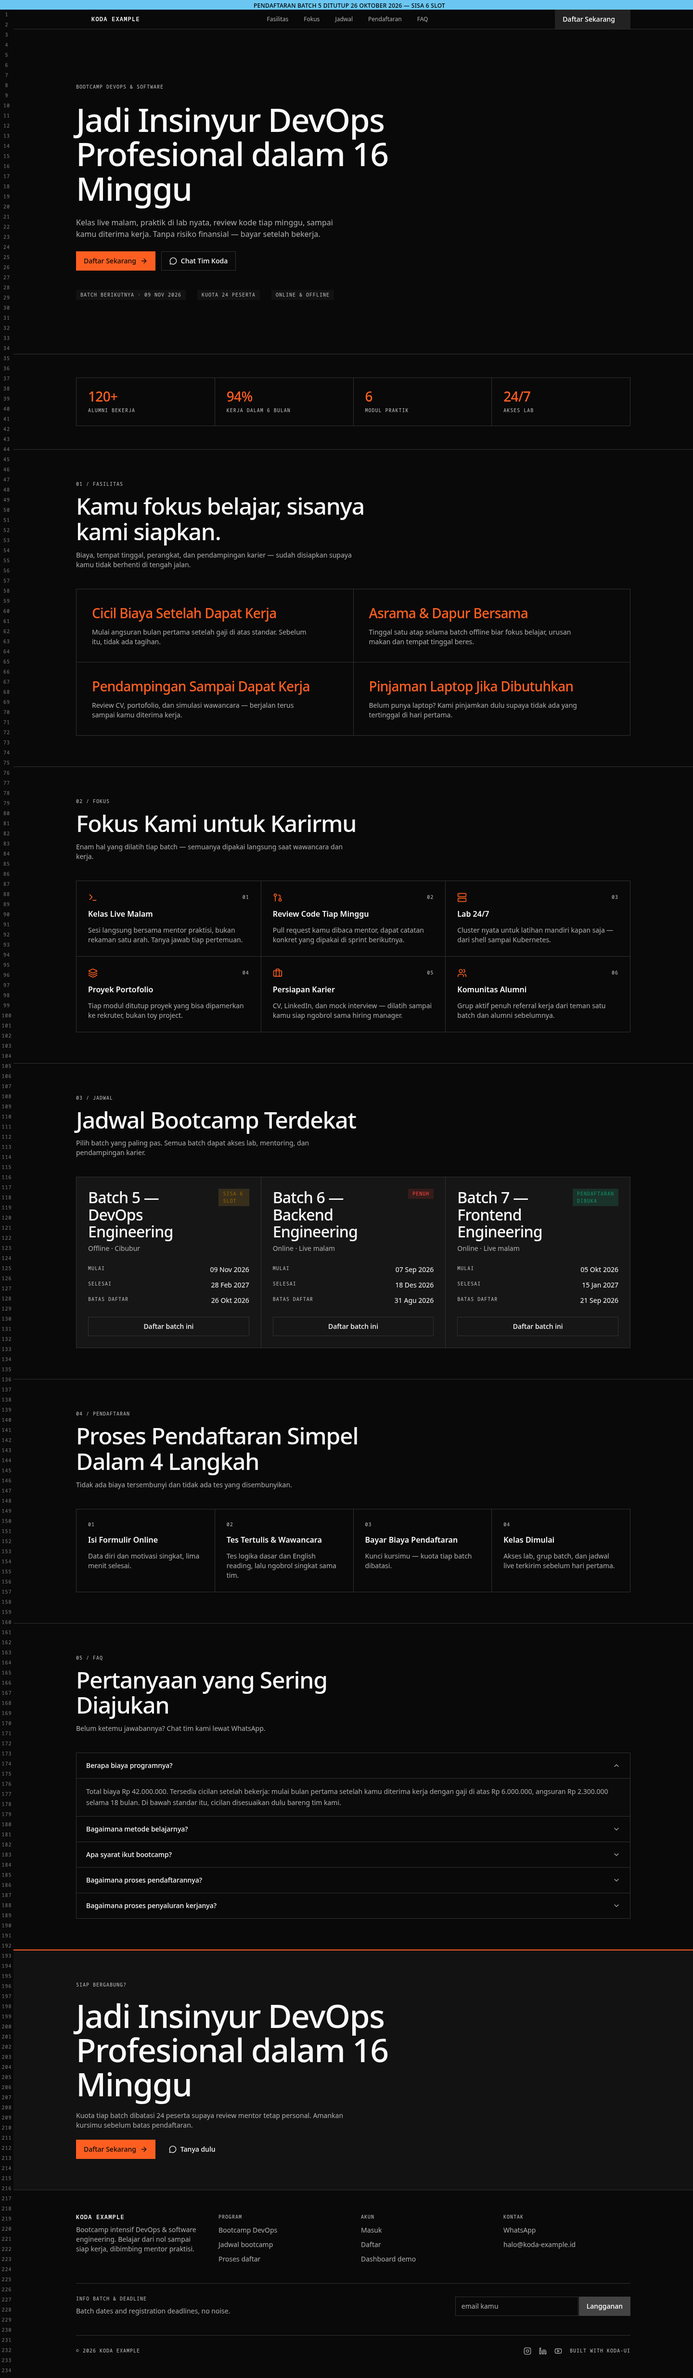
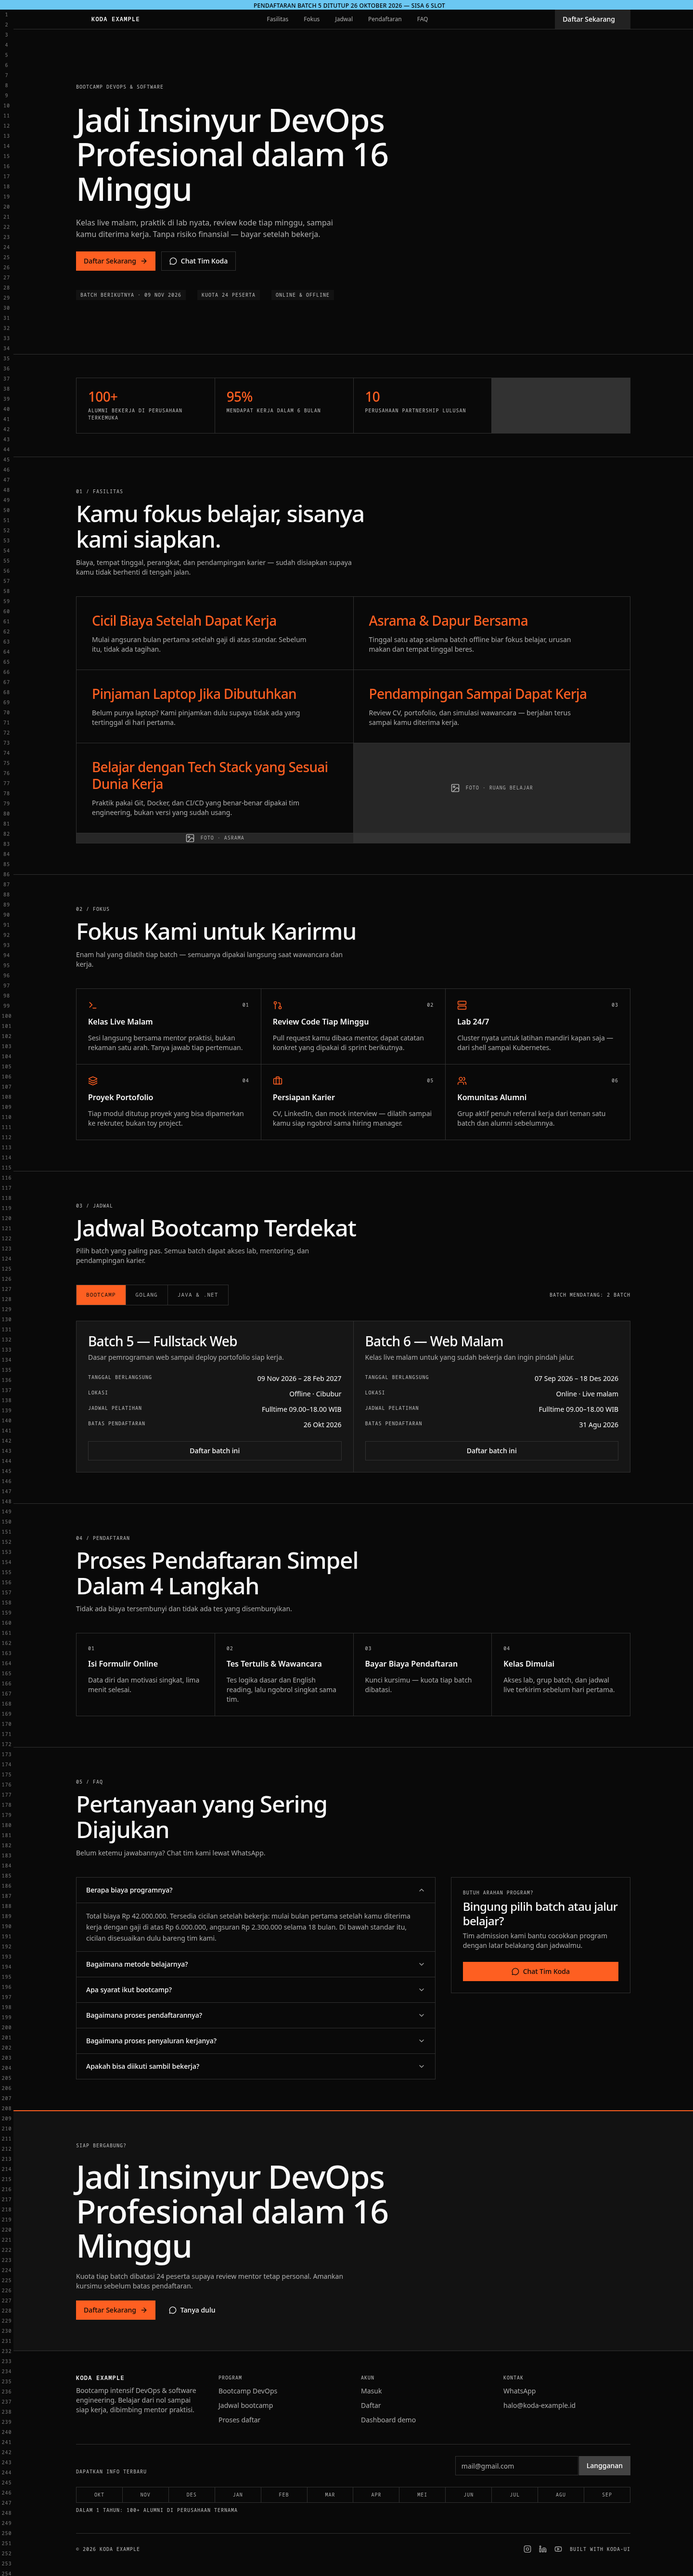
feat(landing): complete spec sections — feature grid 5+2 foto, stat strip 3, FAQ 6 + kartu WA, newsletter eyebrow + timeline bulan, jadwal tabs (Bootcamp/Golang/Java & .NET)

diff --git a/src/pages/landing.tsx b/src/pages/landing.tsx
@@ -1,21 +1,22 @@
 import * as React from "react";
 import { Link } from "react-router-dom";
-import { MessageCircle, ArrowRight, Terminal, GitPullRequest, Server, Layers, Briefcase, Users } from "lucide-react";
+import { MessageCircle, ArrowRight, Terminal, GitPullRequest, Server, Layers, Briefcase, Users, Image as ImageIcon } from "lucide-react";
 import { AnnouncementBar } from "@/components/landing/announcement-bar";
 import { RuleRail } from "@/components/landing/rule-rail";
 import { Navbar } from "@/components/landing/navbar";
 import { Hero } from "@/components/landing/hero";
 import { StatCounter } from "@/components/landing/stat-counter";
 import { FeatureGrid } from "@/components/landing/feature-grid";
+import { JadwalTabs } from "@/components/landing/jadwal-tabs";
 import { CtaBand } from "@/components/landing/cta-band";
 import { Footer } from "@/components/landing/footer";
 import { SectionFrame } from "@/components/ui/section-frame";
 import { Button } from "@/components/ui/button";
 import { Badge } from "@/components/ui/badge";
-import { Card, CardContent, CardHeader, CardTitle, CardDescription, CardFooter } from "@/components/ui/card";
+import { Card, CardHeader, CardTitle, CardDescription, CardFooter } from "@/components/ui/card";
 import { Label } from "@/components/ui/label";
 import { Accordion } from "@/components/accordion";
-import { batchCards, langkah, faq, stats, fasilitas, fokusFeatures } from "@/lib/data";
+import { langkah, faq, stats, fasilitas, fokusFeatures, jadwalTabs, timelineMonths } from "@/lib/data";
 
 const WA_LINK =
   "https://api.whatsapp.com/send/?phone=6281234567890&text=Halo%20tim%20Koda%20Example%2C%20saya%20ingin%20tanya%20program%20bootcamp";
@@ -103,6 +104,16 @@ function LandingPage() {
                   <p className="max-w-md text-sm text-muted-foreground">{item.desc}</p>
                 </div>
               ))}
+              {/* Slot foto ruang kelas/asrama — ganti <img> saat aset siap. */}
+              {["ruang belajar", "asrama"].map((photo) => (
+                <div
+                  key={photo}
+                  className="flex aspect-[16/9] items-center justify-center gap-3 bg-muted/30 text-muted-foreground sm:aspect-auto"
+                >
+                  <ImageIcon aria-hidden className="size-5" />
+                  <span className="font-mono text-[10px] uppercase tracking-[0.1em]">Foto · {photo}</span>
+                </div>
+              ))}
             </div>
           </SectionFrame>
 
@@ -123,38 +134,7 @@ function LandingPage() {
             heading="Jadwal Bootcamp Terdekat"
             description="Pilih batch yang paling pas. Semua batch dapat akses lab, mentoring, dan pendampingan karier."
           >
-            <div className="grid gap-px border border-border bg-border md:grid-cols-3">
-              {batchCards.map((batch) => (
-                <Card key={batch.nama} className="rounded-none border-0">
-                  <CardHeader className="flex-row items-start justify-between space-y-0">
-                    <div className="flex flex-col gap-2">
-                      <CardTitle className="text-[32px] font-medium leading-[1.1]">{batch.nama}</CardTitle>
-                      <CardDescription>{batch.mode}</CardDescription>
-                    </div>
-                    <Badge variant={batch.slotTone}>{batch.slot}</Badge>
-                  </CardHeader>
-                  <CardContent className="flex flex-col gap-3 text-sm">
-                    <div className="flex justify-between">
-                      <Label>Mulai</Label>
-                      <span>{batch.mulai}</span>
-                    </div>
-                    <div className="flex justify-between">
-                      <Label>Selesai</Label>
-                      <span>{batch.selesai}</span>
-                    </div>
-                    <div className="flex justify-between">
-                      <Label>Batas daftar</Label>
-                      <span>{batch.batasDaftar}</span>
-                    </div>
-                  </CardContent>
-                  <CardFooter>
-                    <Button asChild variant="outline" className="w-full">
-                      <Link to="/register">Daftar batch ini</Link>
-                    </Button>
-                  </CardFooter>
-                </Card>
-              ))}
-            </div>
+            <JadwalTabs tabs={jadwalTabs} />
           </SectionFrame>
 
           <SectionFrame
@@ -179,12 +159,32 @@ function LandingPage() {
             heading="Pertanyaan yang Sering Diajukan"
             description="Belum ketemu jawabannya? Chat tim kami lewat WhatsApp."
           >
-            <Accordion
-              items={faq.map((item) => ({
-                title: item.q,
-                content: <p className="leading-relaxed">{item.a}</p>,
-              }))}
-            />
+            <div className="grid gap-px border border-border bg-border lg:grid-cols-[2fr_1fr] lg:items-start lg:bg-transparent lg:border-0 lg:gap-8">
+              <Accordion
+                items={faq.map((item) => ({
+                  title: item.q,
+                  content: <p className="leading-relaxed">{item.a}</p>,
+                }))}
+              />
+              <Card className="rounded-none border-border bg-background">
+                <CardHeader>
+                  <Label>Butuh arahan program?</Label>
+                  <CardTitle className="text-2xl font-medium leading-tight">
+                    Bingung pilih batch atau jalur belajar?
+                  </CardTitle>
+                  <CardDescription>
+                    Tim admission kami bantu cocokkan program dengan latar belakang dan jadwalmu.
+                  </CardDescription>
+                </CardHeader>
+                <CardFooter>
+                  <Button asChild className="w-full">
+                    <a href={WA_LINK} target="_blank" rel="noreferrer">
+                      <MessageCircle aria-hidden /> Chat Tim Koda
+                    </a>
+                  </Button>
+                </CardFooter>
+              </Card>
+            </div>
           </SectionFrame>
 
           <CtaBand
@@ -236,7 +236,12 @@ function LandingPage() {
               ],
             },
           ]}
-          newsletter={{ heading: "Info batch & deadline", placeholder: "email kamu", buttonLabel: "Langganan" }}
+          newsletter={{
+            eyebrow: "Dapatkan info terbaru",
+            placeholder: "mail@gmail.com",
+            buttonLabel: "Langganan",
+            timeline: { months: timelineMonths, text: "Dalam 1 tahun: 100+ alumni di perusahaan ternama" },
+          }}
         />
       </div>
     </div>

diff --git a/src/lib/data.ts b/src/lib/data.ts
@@ -78,6 +78,46 @@ export const batchCards = [
   },
 ];
 
+// --- Landing: jadwal tabs (Bootcamp / Golang / Java & .NET) ---
+export interface JadwalBatch {
+  nama: string;
+  deskripsi: string;
+  tanggal: string;
+  lokasi: string;
+  jadwal: string;
+  batasDaftar: string;
+}
+
+export const jadwalTabs: { id: string; label: string; batches: JadwalBatch[] }[] = [
+  {
+    id: "bootcamp",
+    label: "Bootcamp",
+    batches: [
+      { nama: "Batch 5 — Fullstack Web", deskripsi: "Dasar pemrograman web sampai deploy portofolio siap kerja.", tanggal: "09 Nov 2026 – 28 Feb 2027", lokasi: "Offline · Cibubur", jadwal: "Fulltime 09.00–18.00 WIB", batasDaftar: "26 Okt 2026" },
+      { nama: "Batch 6 — Web Malam", deskripsi: "Kelas live malam untuk yang sudah bekerja dan ingin pindah jalur.", tanggal: "07 Sep 2026 – 18 Des 2026", lokasi: "Online · Live malam", jadwal: "Fulltime 09.00–18.00 WIB", batasDaftar: "31 Agu 2026" },
+    ],
+  },
+  {
+    id: "golang",
+    label: "Golang",
+    batches: [
+      { nama: "Kelas GL-1 — Backend Go Intensif", deskripsi: "REST API, concurrency, dan deployment layanan Go ke produksi.", tanggal: "16 Nov 2026 – 22 Jan 2027", lokasi: "Offline · Cibubur", jadwal: "Fulltime 09.00–18.00 WIB", batasDaftar: "02 Nov 2026" },
+      { nama: "Kelas GL-2 — Go Microservice", deskripsi: "gRPC, observability, dan arsitektur service untuk tim backend.", tanggal: "11 Jan 2027 – 19 Mar 2027", lokasi: "Online · Live malam", jadwal: "Fulltime 09.00–18.00 WIB", batasDaftar: "28 Des 2026" },
+    ],
+  },
+  {
+    id: "java-dotnet",
+    label: "Java & .NET",
+    batches: [
+      { nama: "Kelas JV-1 — Spring Boot", deskripsi: "Backend Java enterprise: Spring, JPA, dan pengujian terotomasi.", tanggal: "23 Nov 2026 – 29 Jan 2027", lokasi: "Offline · Cibubur", jadwal: "Fulltime 09.00–18.00 WIB", batasDaftar: "09 Nov 2026" },
+      { nama: "Kelas NT-1 — ASP.NET Core", deskripsi: "Web API .NET, Entity Framework, dan deployment ke cloud.", tanggal: "18 Jan 2027 – 26 Mar 2027", lokasi: "Online · Live malam", jadwal: "Fulltime 09.00–18.00 WIB", batasDaftar: "04 Jan 2027" },
+    ],
+  },
+];
+
+// --- Landing: bulan timeline strip (Okt..Sep) ---
+export const timelineMonths = ["Okt", "Nov", "Des", "Jan", "Feb", "Mar", "Apr", "Mei", "Jun", "Jul", "Agu", "Sep"];
+
 // --- Landing: jadwal table (5 kategori tab, 7 kolom) ---
 export type JadwalKategori = "DevOps" | "Backend" | "Frontend" | "Data" | "Cloud";
 
@@ -133,14 +173,16 @@ export const faq = [
   { q: "Apa syarat ikut bootcamp?", a: "Usia minimal 18 tahun, punya laptop (pinjaman tersedia bila perlu), dan lulus tes dasar logika serta English reading sederhana. Tidak wajib punya latar belakang IT." },
   { q: "Bagaimana proses pendaftarannya?", a: "Isi formulir online, ikut tes tertulis dan wawancara singkat, lalu bayar biaya pendaftaran untuk mengunci kursi. Kuota tiap batch dibatasi agar review mentor tetap personal." },
   { q: "Bagaimana proses penyaluran kerjanya?", a: "Tim karier bantu perbaiki CV dan portofolio, latihan wawancara, lalu kirim rekomendasi ke perusahaan partner. Pendampingan berjalan sampai kamu diterima kerja, bukan berhenti saat lulus kelas." },
+  { q: "Apakah bisa diikuti sambil bekerja?", a: "Bisa. Tersedia kelas live malam dan kelas akhir pekan untuk yang sudah bekerja. Beban tugas disesuaikan, tapi tetap ditagih tiap minggu supaya progres tidak mandek." },
 ];
 
 // --- Landing: fasilitas (facility cards, accent 28px) ---
 export const fasilitas = [
   { judul: "Cicil Biaya Setelah Dapat Kerja", desc: "Mulai angsuran bulan pertama setelah gaji di atas standar. Sebelum itu, tidak ada tagihan." },
   { judul: "Asrama & Dapur Bersama", desc: "Tinggal satu atap selama batch offline biar fokus belajar, urusan makan dan tempat tinggal beres." },
-  { judul: "Pendampingan Sampai Dapat Kerja", desc: "Review CV, portofolio, dan simulasi wawancara — berjalan terus sampai kamu diterima kerja." },
   { judul: "Pinjaman Laptop Jika Dibutuhkan", desc: "Belum punya laptop? Kami pinjamkan dulu supaya tidak ada yang tertinggal di hari pertama." },
+  { judul: "Pendampingan Sampai Dapat Kerja", desc: "Review CV, portofolio, dan simulasi wawancara — berjalan terus sampai kamu diterima kerja." },
+  { judul: "Belajar dengan Tech Stack yang Sesuai Dunia Kerja", desc: "Praktik pakai Git, Docker, dan CI/CD yang benar-benar dipakai tim engineering, bukan versi yang sudah usang." },
 ];
 
 // --- Landing: Fokus Kami untuk Karirmu (feature grid) ---
@@ -163,10 +205,9 @@ export const langkah = [
 
 // --- Landing: hero meta + stat strip ---
 export const stats = [
-  { value: "120+", label: "Alumni bekerja" },
-  { value: "94%", label: "Kerja dalam 6 bulan" },
-  { value: "6", label: "Modul praktik" },
-  { value: "24/7", label: "Akses lab" },
+  { value: "100+", label: "Alumni bekerja di perusahaan terkemuka" },
+  { value: "95%", label: "Mendapat kerja dalam 6 bulan" },
+  { value: "10", label: "Perusahaan partnership lulusan" },
 ];
 
 // --- Dashboard: chart + activity ---

diff --git a/src/components/landing/footer.tsx b/src/components/landing/footer.tsx
@@ -21,7 +21,15 @@ interface FooterProps extends React.HTMLAttributes<HTMLElement> {
   tagline?: string;
   columns?: FooterColumn[];
   /** Newsletter row; `false` hides it. */
-  newsletter?: { heading?: string; placeholder?: string; buttonLabel?: string } | false;
+  newsletter?: {
+    heading?: string;
+    /** Mono eyebrow above the input, e.g. "DAPATKAN INFO TERBARU". */
+    eyebrow?: string;
+    placeholder?: string;
+    buttonLabel?: string;
+    /** Month strip + caption, e.g. { months: ["Okt", …], text: "Dalam 1 tahun: …" }. */
+    timeline?: { months: string[]; text: string };
+  } | false;
   /** Social icons row; defaults to Instagram / LinkedIn / YouTube. */
   socials?: Social[];
 }
@@ -68,32 +76,50 @@ function Footer({
         </div>
 
         {nl ? (
-          <form
-            className="flex flex-col gap-3 border-t border-border pt-6 sm:flex-row sm:items-end sm:justify-between"
-            onSubmit={(event) => event.preventDefault()}
-          >
-            <div className="flex flex-col gap-2">
-              <Label>{nl.heading ?? "Newsletter"}</Label>
-              <p className="max-w-md text-sm text-muted-foreground">
-                Batch dates and registration deadlines, no noise.
-              </p>
-            </div>
-            <div className="flex w-full gap-px sm:w-auto">
-              <Input
-                type="email"
-                required
-                aria-label="Email address"
-                placeholder={nl.placeholder ?? "you@example.com"}
-                className="h-10 w-full sm:w-64"
-              />
-              <Button
-                type="submit"
-                className="h-10 rounded-none bg-[#434343] text-white hover:bg-[#4f4f4f]"
-              >
-                {nl.buttonLabel ?? "Langganan"}
-              </Button>
-            </div>
-          </form>
+          <div className="flex flex-col gap-6 border-t border-border pt-6">
+            <form
+              className="flex flex-col gap-3 sm:flex-row sm:items-end sm:justify-between"
+              onSubmit={(event) => event.preventDefault()}
+            >
+              <div className="flex flex-col gap-2">
+                {nl.eyebrow ? <Label>{nl.eyebrow}</Label> : null}
+                {nl.heading ? (
+                  <span className="font-display text-base font-semibold">{nl.heading}</span>
+                ) : null}
+              </div>
+              <div className="flex w-full gap-px sm:w-auto">
+                <Input
+                  type="email"
+                  required
+                  aria-label="Email address"
+                  placeholder={nl.placeholder ?? "you@example.com"}
+                  className="h-10 w-full sm:w-64"
+                />
+                <Button
+                  type="submit"
+                  className="h-10 rounded-none bg-[#434343] text-white hover:bg-[#4f4f4f]"
+                >
+                  {nl.buttonLabel ?? "Langganan"}
+                </Button>
+              </div>
+            </form>
+
+            {nl.timeline ? (
+              <div className="flex flex-col gap-2">
+                <div className="grid grid-cols-6 gap-px border border-border bg-border sm:grid-cols-12">
+                  {nl.timeline.months.map((month) => (
+                    <span
+                      key={month}
+                      className="bg-background px-2 py-2 text-center font-mono text-[10px] uppercase tracking-[0.1em] text-muted-foreground"
+                    >
+                      {month}
+                    </span>
+                  ))}
+                </div>
+                <Label>{nl.timeline.text}</Label>
+              </div>
+            ) : null}
+          </div>
         ) : null}
 
         <div className="flex flex-col gap-4 border-t border-border pt-6 sm:flex-row sm:items-center sm:justify-between">

diff --git a/src/components/landing/jadwal-tabs.tsx b/src/components/landing/jadwal-tabs.tsx
@@ -1,0 +1,76 @@
+import * as React from "react";
+import { Link } from "react-router-dom";
+import { cn } from "@/lib/utils";
+import { Label } from "@/components/ui/label";
+import { Button } from "@/components/ui/button";
+import { Card, CardContent, CardDescription, CardFooter, CardHeader, CardTitle } from "@/components/ui/card";
+import type { JadwalBatch } from "@/lib/data";
+
+interface JadwalTab {
+  id: string;
+  label: string;
+  batches: JadwalBatch[];
+}
+
+function Row({ label, value }: { label: string; value: string }) {
+  return (
+    <div className="flex justify-between gap-4">
+      <Label>{label}</Label>
+      <span className="text-right">{value}</span>
+    </div>
+  );
+}
+
+/** Jadwal: tab kategori + kartu batch. Label "Batch mendatang" ambil jumlah dari tab aktif. */
+function JadwalTabs({ tabs, className }: { tabs: JadwalTab[]; className?: string }) {
+  const [active, setActive] = React.useState(tabs[0]?.id);
+  const tab = tabs.find((t) => t.id === active) ?? tabs[0];
+  return (
+    <div className={cn("flex flex-col gap-8", className)}>
+      <div className="flex flex-col gap-4 sm:flex-row sm:items-center sm:justify-between">
+        <div role="tablist" aria-label="Kategori jadwal" className="flex flex-wrap gap-px border border-border bg-border">
+          {tabs.map((t) => (
+            <button
+              key={t.id}
+              type="button"
+              role="tab"
+              aria-selected={t.id === active}
+              onClick={() => setActive(t.id)}
+              className={cn(
+                "px-5 py-3 font-mono text-[11px] uppercase tracking-[0.1em] transition-colors focus-visible:outline-none focus-visible:ring-2 focus-visible:ring-ring",
+                t.id === active ? "bg-primary text-primary-foreground" : "bg-background text-muted-foreground hover:bg-muted/50",
+              )}
+            >
+              {t.label}
+            </button>
+          ))}
+        </div>
+        <Label>{`Batch mendatang: ${tab.batches.length} batch`}</Label>
+      </div>
+
+      <div className="grid gap-px border border-border bg-border md:grid-cols-2">
+        {tab.batches.map((batch) => (
+          <Card key={batch.nama} className="rounded-none border-0">
+            <CardHeader>
+              <CardTitle className="text-[28px] font-medium leading-tight">{batch.nama}</CardTitle>
+              <CardDescription>{batch.deskripsi}</CardDescription>
+            </CardHeader>
+            <CardContent className="flex flex-col gap-3 text-sm">
+              <Row label="Tanggal berlangsung" value={batch.tanggal} />
+              <Row label="Lokasi" value={batch.lokasi} />
+              <Row label="Jadwal pelatihan" value={batch.jadwal} />
+              <Row label="Batas pendaftaran" value={batch.batasDaftar} />
+            </CardContent>
+            <CardFooter>
+              <Button asChild variant="outline" className="w-full">
+                <Link to="/register">Daftar batch ini</Link>
+              </Button>
+            </CardFooter>
+          </Card>
+        ))}
+      </div>
+    </div>
+  );
+}
+
+export { JadwalTabs };
